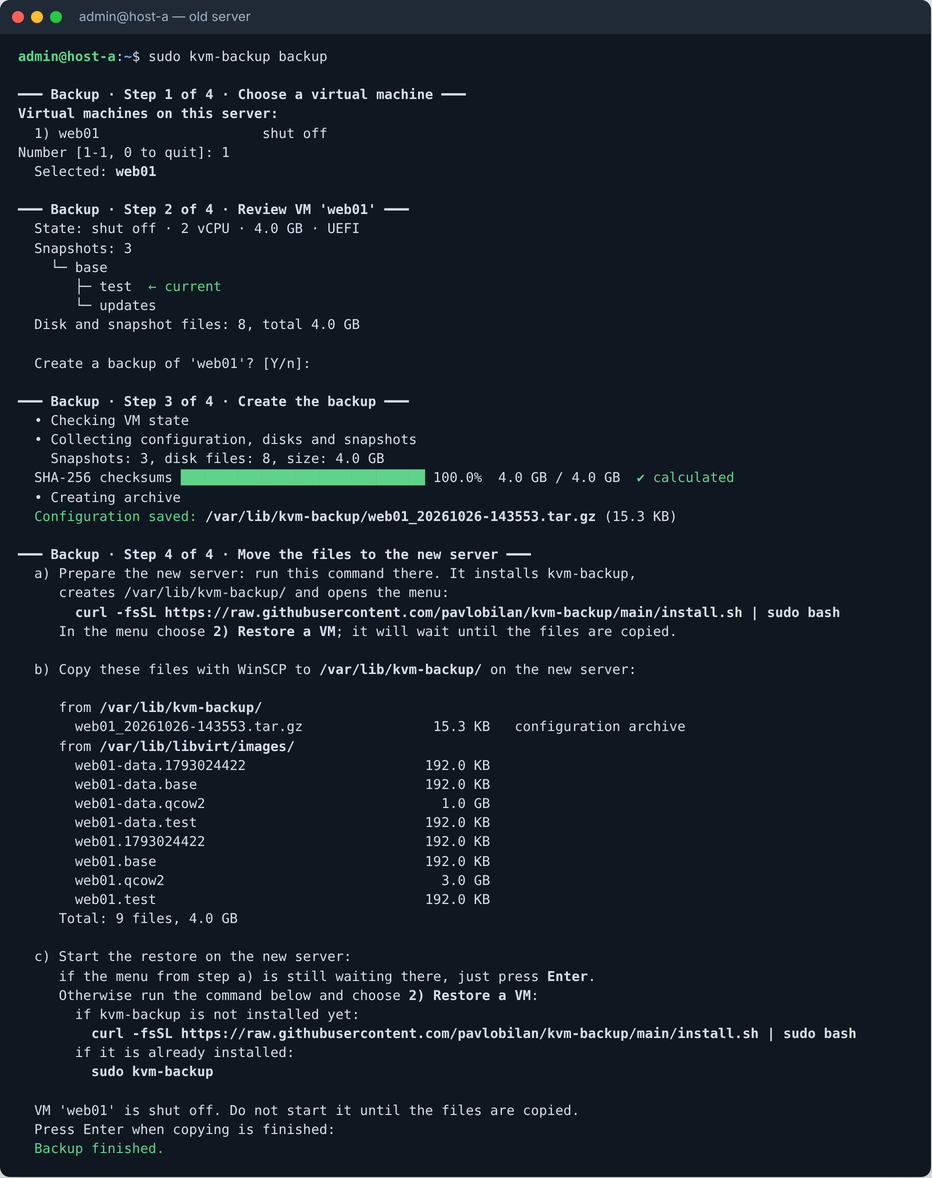
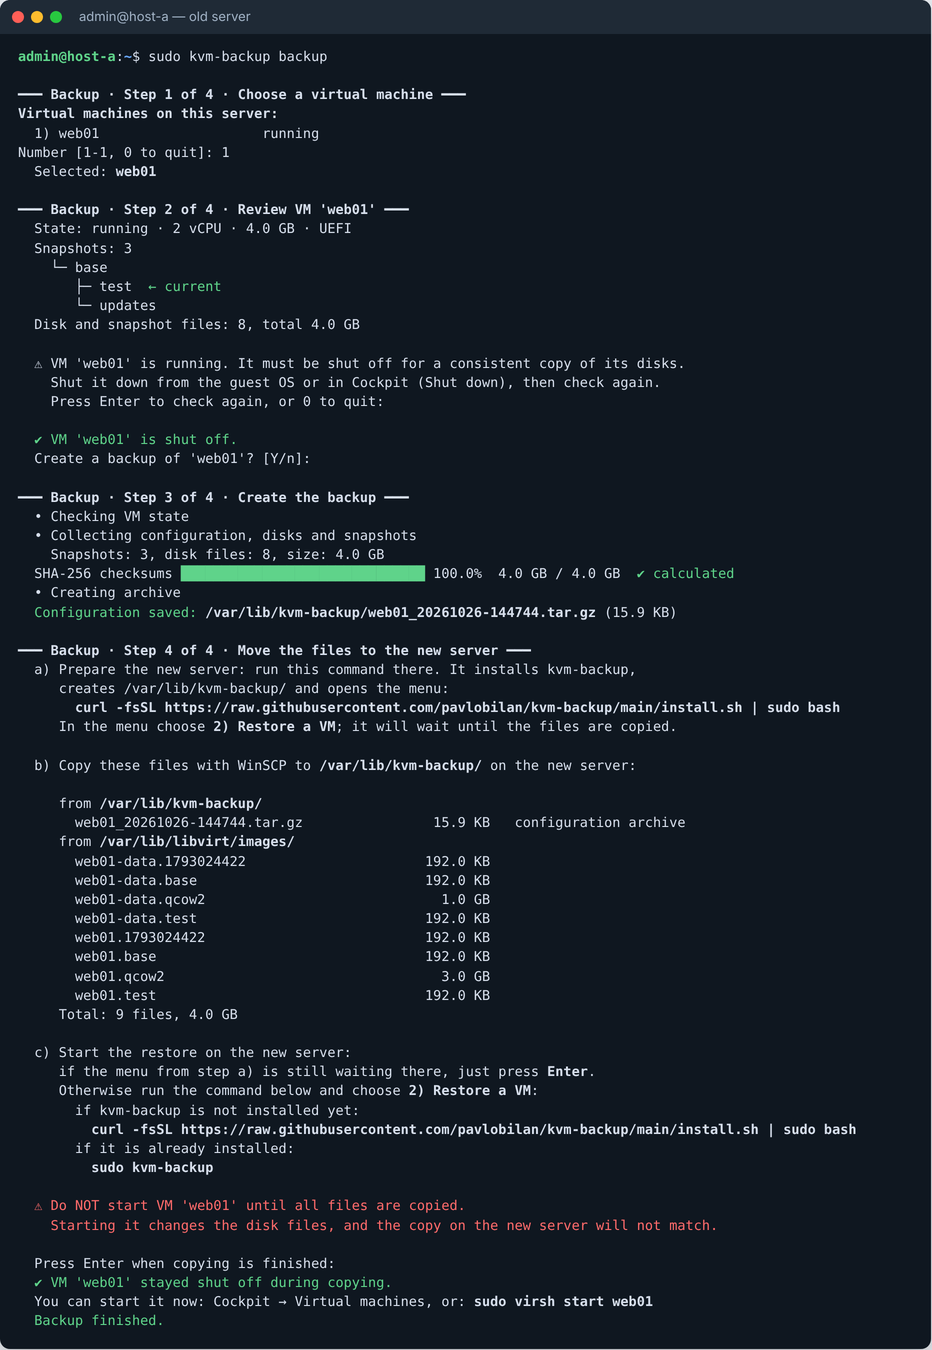
Never shut the VM down; wait for the user and warn about starting it early
- If the VM is running, ask the user to shut it down and re-check on Enter
  instead of shutting it down (or forcing power-off) automatically.
- Warn not to start the VM until all files are copied, and report after
  Enter whether it stayed shut off.

Claude-Session: https://claude.ai/code/session_01B6oZBxwDXgi735Z33Mo7zh

diff --git a/kvmbackup/cli.py b/kvmbackup/cli.py
@@ -233,14 +233,19 @@ def cmd_backup(vm, assume_yes, checksums):
 
     opts = {"checksums": checksums}
     print()
-    if a["state"] != "shut off":
-        print(warn("  The VM is running. It will be shut down and must stay off until its disks are copied."))
-        if not ask("  Shut down the VM and create the backup?", True, assume_yes):
+    # kvm-backup never shuts the VM down itself: wait until the user does it
+    while True:
+        state = virt.domain_state(vm)
+        if state == "shut off":
+            break
+        print(warn(f"  ⚠ VM '{vm}' is {state}. It must be shut off for a consistent copy of its disks."))
+        print("    Shut it down from the guest OS or in Cockpit (Shut down), then check again.")
+        if assume_yes or not wait_enter("    Press Enter to check again, or 0 to quit: "):
             print("Cancelled.")
             return 1
-        opts.update(shutdown=True, force=assume_yes or ask(
-            "  Force power-off if it does not shut down within 3 minutes?", False))
-    elif not ask(f"  Create a backup of '{vm}'?", True, assume_yes):
+        print()
+    print(ok(f"  ✔ VM '{vm}' is shut off."))
+    if not ask(f"  Create a backup of '{vm}'?", True, assume_yes):
         print("Cancelled.")
         return 1
 
@@ -294,26 +299,29 @@ def cmd_backup(vm, assume_yes, checksums):
     print("       if it is already installed:")
     print(f"         {bold('sudo kvm-backup')}")
     print()
-    print(warn(f"  VM '{vm}' is shut off. Do not start it until the files are copied."))
-
-    def cleanup(start):
-        errs = fsutil.revoke_acl(acl)
-        for e in errs:
-            print("  " + warn("⚠ " + e))
-        if start and virt.domain_state(vm) == "shut off":
-            virt.virsh("start", vm)
-            print(ok(f"  VM '{vm}' started."))
+    print(bad(f"  ⚠ Do NOT start VM '{vm}' until all files are copied."))
+    print(bad("    Starting it changes the disk files, and the copy on the new server will not match."))
+    print()
 
     if assume_yes:
-        print("  -y mode: no temporary WinSCP access granted; the VM will not be started automatically.")
+        print("  -y mode: no temporary WinSCP access was granted.")
         return 0
     try:
-        input(f"  Press Enter when copying is finished{' (the VM will be started again)' if res['was_running'] else ''}: ")
-        cleanup(res["was_running"])
+        input("  Press Enter when copying is finished: ")
     except (KeyboardInterrupt, EOFError):
         print()
-        cleanup(False)
-        print("  Interrupted. The VM was not started.")
+        print("  Interrupted.")
+    for e in fsutil.revoke_acl(acl):
+        print("  " + warn("⚠ " + e))
+    if virt.domain_state(vm) != "shut off":
+        print(bad(f"  ✖ VM '{vm}' was started before you pressed Enter."))
+        print(bad("    If it was running while files were copied, the copy may be inconsistent:"))
+        print(bad("    the restore will report a checksum mismatch. In that case shut the VM down"))
+        print(bad("    and run the backup again."))
+        print(warn("  Backup finished with a warning."))
+        return 1
+    print(ok(f"  ✔ VM '{vm}' stayed shut off during copying."))
+    print(f"  You can start it now: Cockpit → Virtual machines, or: {bold(f'sudo virsh start {vm}')}")
     print(ok("  Backup finished."))
     return 0
 

diff --git a/kvmbackup/backup.py b/kvmbackup/backup.py
@@ -6,7 +6,6 @@ import re
 import shutil
 import socket
 import tarfile
-import time
 import xml.etree.ElementTree as ET
 
 from . import config, fsutil, virt, xmlutil
@@ -215,34 +214,12 @@ def summary(a):
     return out
 
 
-def _wait_off(job, vm, timeout):
-    deadline = time.time() + timeout
-    while time.time() < deadline:
-        if virt.domain_state(vm) == "shut off":
-            return True
-        left = int(deadline - time.time())
-        job.step_text = f"Waiting for the VM to shut down (up to {left} s left)"
-        time.sleep(3)
-    return False
-
-
 def run_backup(job, vm, opts):
     job.step("Checking VM state", 1)
     state = virt.domain_state(vm)
-    was_running = False
     if state != "shut off":
-        if not opts.get("shutdown"):
-            raise JobError(f"VM '{vm}' is {state}. It must be shut off for a consistent disk copy; "
-                           f"allow shutdown or shut it down first.")
-        was_running = True
-        job.step("Shutting down the VM (ACPI)", 3)
-        virt.virsh("shutdown", vm, check=False)
-        if not _wait_off(job, vm, int(config.get()["shutdown_timeout"])):
-            if not opts.get("force"):
-                raise JobError("The VM did not shut down in time. Shut it down manually or allow a forced power-off.")
-            job.step("Forcing VM power-off", 8)
-            virt.virsh("destroy", vm)
-        job.log("VM is shut off")
+        raise JobError(f"VM '{vm}' is {state}. Shut it down first; kvm-backup does not shut VMs down.")
+    was_running = False
 
     job.step("Collecting configuration, disks and snapshots", 10)
     a = analyse(vm)

diff --git a/kvmbackup/config.py b/kvmbackup/config.py
@@ -7,7 +7,6 @@ DEFAULTS = {
     "backup_root": "/var/lib/kvm-backup",
     "transfer_group": "kvmbackup",
     "libvirt_uri": "qemu:///system",
-    "shutdown_timeout": 180,
     "nvram_dir": "/var/lib/libvirt/qemu/nvram",
     "swtpm_dir": "/var/lib/libvirt/swtpm",
 }

diff --git a/README.md b/README.md
@@ -15,9 +15,9 @@ The user who runs `sudo` is added to the `kvmbackup` group, which lets WinSCP re
 ## Back up (old server)
 
 1. Choose a virtual machine.
-2. Review it (state, snapshot tree, disk files) and confirm; a running VM is shut down.
+2. Review it (state, snapshot tree, disk files). A running VM is never shut down by the tool: it asks you to shut it down and checks again.
 3. The configuration is saved to a single archive: `/var/lib/kvm-backup/<VM>_<date>.tar.gz`.
-4. The tool prints the install command for the new server, every file to copy with its source directory, the target directory on the new server (`/var/lib/kvm-backup/`) and what to run there. Copy the files with WinSCP, then press Enter: temporary read access is removed and the VM is started again if it was running.
+4. The tool prints the install command for the new server, every file to copy with its source directory, the target directory on the new server (`/var/lib/kvm-backup/`) and what to run there. Copy the files with WinSCP while the VM stays shut off, then press Enter: temporary read access is removed and the tool reports whether the VM stayed off.
 
 ## Restore (new server)
 
